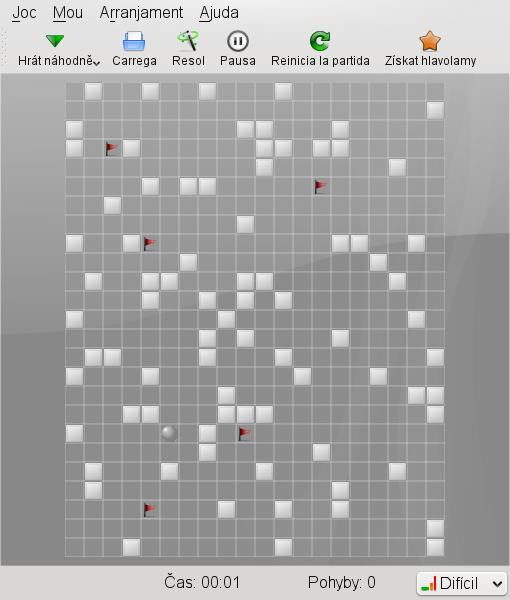
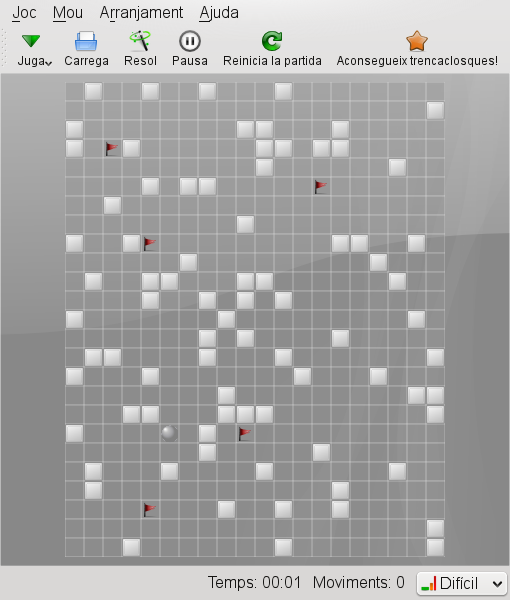
added more messages, updated versions

diff --git a/src/kmagnet.cpp b/src/kmagnet.cpp
@@ -16,7 +16,6 @@
  *  Foundation, Inc., 51 Franklin Street, Fifth Floor, Boston, MA  02110-1301, USA   *
  *************************************************************************************/
 
-
 #include "kmagnet.h"
 #include "settings.h"
 #include "common.h"
@@ -75,8 +74,9 @@ kmagnet::kmagnet() : KXmlGuiWindow()
 
     setCentralWidget(m_view);
     // add a status bar
-    statusBar()->insertItem( i18n("Time: 00:00"), 0);
-    statusBar()->insertItem( i18n("Movements: 0"), 1);
+    statusBar()->insertItem( "", 0);
+    statusBar()->insertItem( i18n("Time: 00:00"), 1);
+    statusBar()->insertItem( i18n("Movements: 0"), 2);
     statusBar()->show();
 
     // then, setup our actions
@@ -119,7 +119,8 @@ void kmagnet::clearBoard(bool b)
     Q_UNUSED(b);
     m_gameClock->restart();
     m_gameClock->pause();
-    statusBar()->changeItem( i18n("Time: 00:00"), 0);
+    statusBar()->changeItem( i18n("Time: 00:00"), 1);
+    statusBar()->changeItem( "",0);
     advanceMovements(0);
     QAction * editingModeAction = this->action("editmode");
     if (!editingModeAction->isChecked())
@@ -130,7 +131,6 @@ void kmagnet::clearBoard(bool b)
     //KGameDifficulty::setRunning(true);
     m_scene->newGame();
 }
-
 
 void kmagnet::showHighscores()
 {
@@ -296,18 +296,19 @@ void kmagnet::loadfile(QString loadFilename)
 
 void kmagnet::advanceTime(const QString& timeStr)
 {
-    statusBar()->changeItem( i18n("Time: %1", timeStr), 0 );
+    statusBar()->changeItem( i18n("Time: %1", timeStr), 1 );
 }
 
 void kmagnet::advanceMovements(int movement)
 {
-    statusBar()->changeItem( i18n("Movements: %1", movement), 1 );
+    statusBar()->changeItem( i18n("Movements: %1", movement), 2 );
 }
 
 void kmagnet::gameOver(bool won)
 {
     m_gameClock->pause();
     if (won) {
+        statusBar()->changeItem(i18n("Game ended."),0);
         KScoreDialog scoreDialog(KScoreDialog::Name | KScoreDialog::Time, this);
         scoreDialog.setConfigGroup(KGameDifficulty::localizedLevelString());
         //scoreDialog.setConfigGroupWeights(KGameDifficulty::levelWeights());//KDE4.2
@@ -422,6 +423,7 @@ void kmagnet::restart()
     m_scene->restart();
     this->action("move_solve")->setEnabled(true);
     KGameDifficulty::setRunning(true);
+    statusBar()->changeItem("",0);
 }
 
 void kmagnet::pause(bool b)
@@ -518,6 +520,7 @@ void kmagnet::solutionFound(QVectorMoves lm)
     }
     else
     {
+        statusBar()->changeItem(i18n("No solution found."),0);
         this->action("move_solve")->setEnabled(true);
         this->action("game_restart")->setEnabled(true);
     }

diff --git a/src/kmagnetscene.cpp b/src/kmagnetscene.cpp
@@ -151,13 +151,20 @@ kmagnetScene::~kmagnetScene()
 
 void kmagnetScene::animateMovement ( Moves::Move mov )
 {
+    uint dist=0;
     nextMove nm= isPossibleMove ( mov );
     if ( !nm.getIsPossible() )
     {
         return;
     };
-    unsigned int pos=nm.getPosition();
-    QTimeLine *timer = new QTimeLine ( Settings::animationTime(), this );//better use heap?
+    uint pos=nm.getPosition();
+    if (mov==Moves::UP || mov==Moves::DOWN)
+    {
+        dist=abs(nm.getPosition()-currentPosition)/COLUMNS;
+    } else {
+        dist=abs(nm.getPosition()%ROWS-currentPosition%ROWS);
+    }
+    QTimeLine *timer = new QTimeLine (Settings::animationTime()+dist*10,this);//Settings::animationTime(), this );//better use heap?
     signalMapper->setMapping(timer,currentPosition+pos*1000);
     connect ( timer, SIGNAL ( finished() ),signalMapper, SLOT ( map() ) );
     timer->setFrameRange ( 0, 150 );

diff --git a/src/main.cpp b/src/main.cpp
@@ -28,7 +28,7 @@
 static const char description[] =
     I18N_NOOP("A simple puzzle-like game");
 
-static const char version[] = "0.08";
+static const char version[] = "0.09";
 
 uint Global::itemSize=20;//size of the cells
 

diff --git a/src/rc.cpp b/src/rc.cpp
@@ -1,4 +1,4 @@
-// i18n: file: kMagnetui.rc:5
+// i18n: file: kMagnetui.rc:6
 // i18n: ectx: Menu (game_play)
 i18n("&Play puzzle");
 // i18n: file: kMagnetui.rc:18
